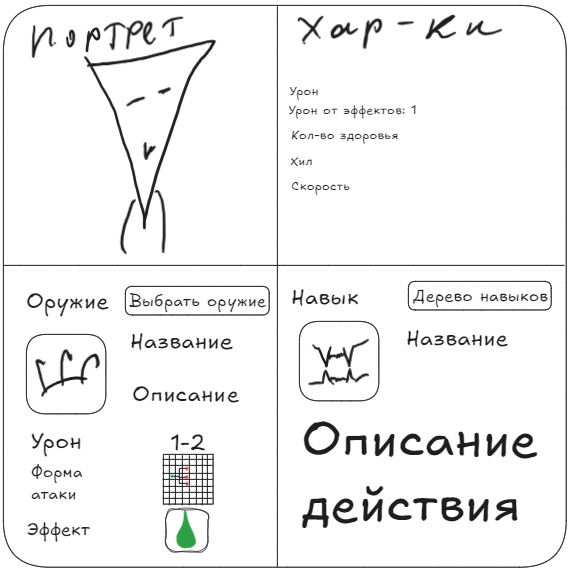
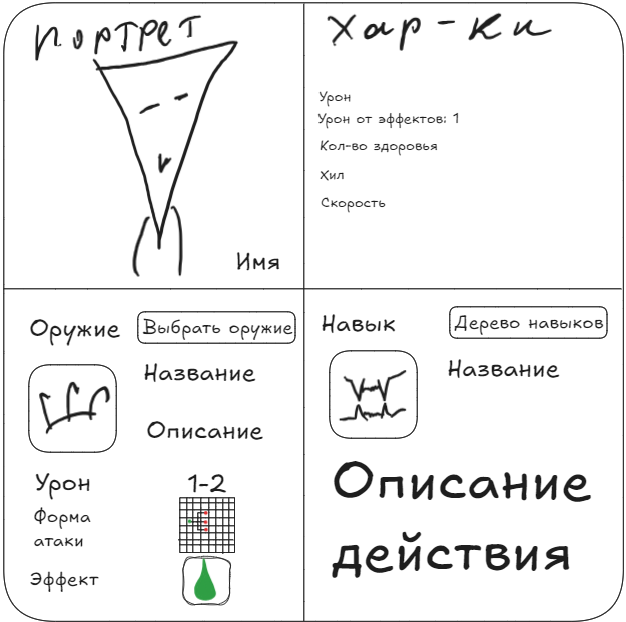
vault backup: 2025-09-25 00:14:23

diff --git a/Идеи Таргем/Персонажи/Персонажи.md b/Идеи Таргем/Персонажи/Персонажи.md
@@ -12,7 +12,8 @@
 Когда игрок захочет посмотреть персонажа, его характеристики и навыки перед ним будет открываться модульное окно "лист персонажа".
 
 Модульное окно листа персонажа разделено на 4 части.
-- Слева сверху изображается только портрет
+- Слева сверху изображается портрет и в правом нижнем углу потрт его имя
+- Справа сверху
 
 ![[Лист персонажа.png]]
 # Дерево прокачки
